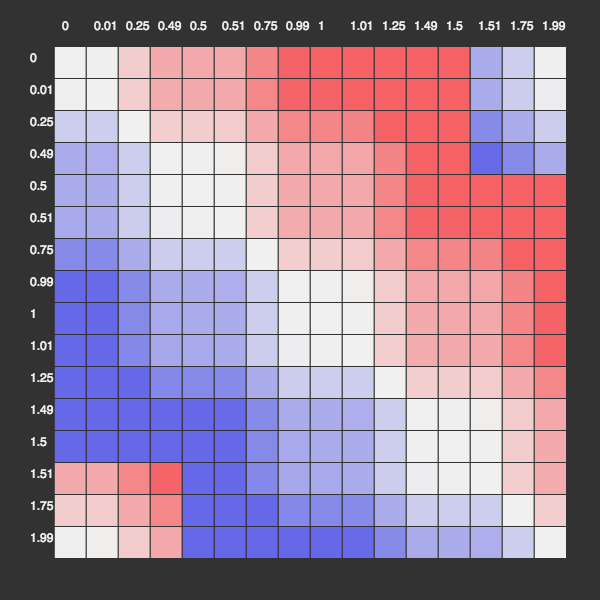
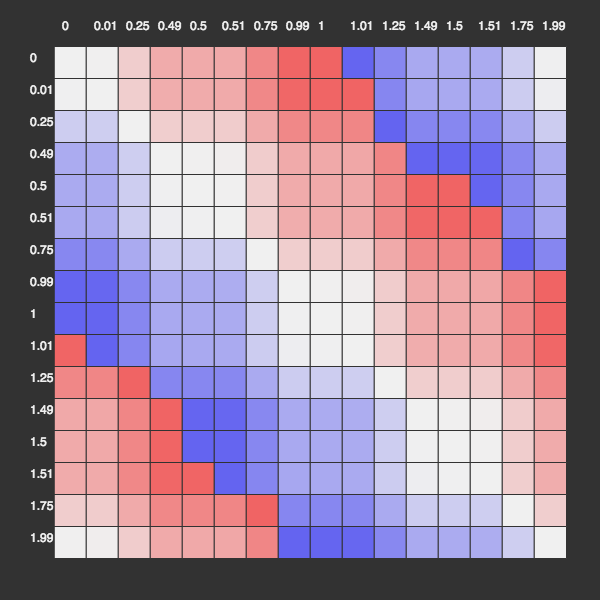
p5js/scales - Rotation between Vectors - fix calculation
* Noticed that there were inflection points in color (red-to-blue) that I wasn't expecting.
    - Rederived this alternate approach, and now the inflection points make sense.

* Adds rotationBetweenVectors() to the P5JsUtils class for use elsewhere.

Changed region(s): [[0.57, 0.06, 0.96, 0.45], [0.09, 0.54, 0.48, 0.93]]

diff --git a/p5js/scales/rotation_between_vectors.js b/p5js/scales/rotation_between_vectors.js
@@ -122,21 +122,8 @@ function drawRotation(v1, v2, cellWidth, cellHeight){
 
 function rotationBetweenVectors(v1, v2){
   let h1 = v1.heading();
-  let h2 = v2.heading();
-
-  let h1Mapped = mapHeadingToZeroToTwoPI(h1);
-  let h2Mapped = mapHeadingToZeroToTwoPI(h2);
-
-  if (h1Mapped > (3 * HALF_PI) && h2Mapped < HALF_PI){
-    h2Mapped += TWO_PI;
-  } else if (h2Mapped > (3 * HALF_PI) && h1Mapped < HALF_PI){
-    h1Mapped += TWO_PI;
-  }
-  return h2Mapped - h1Mapped;;
-}
-
-function mapHeadingToZeroToTwoPI(heading){
-  return (heading >= 0) ? heading : (TWO_PI + heading);
+  let h2 = v2.copy().rotate(-h1);
+  return h2.heading();
 }
 
 function keyTyped(){

diff --git a/p5js/common/p5js_utils.js b/p5js/common/p5js_utils.js
@@ -38,4 +38,10 @@ class P5JsUtils {
   static drawRect(rectObj){
     rect(rectObj.x, rectObj.y, rectObj.width, rectObj.height);
   }
+
+  static rotationBetweenVectors(v1, v2){
+    let h1 = v1.heading();
+    let h2 = v2.copy().rotate(-h1);
+    return h2.heading();
+  }
 }
